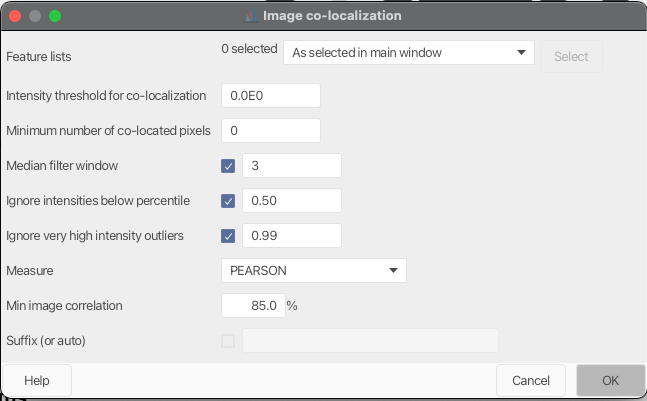
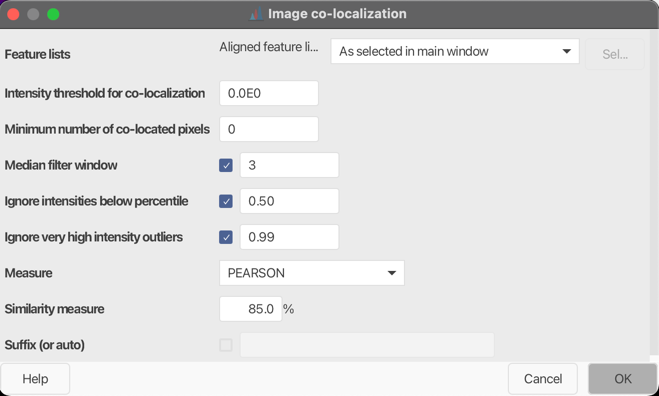
Upadated images and parameters

diff --git a/docs/visualization_modules/image_raw_data/image_viewer.md b/docs/visualization_modules/image_raw_data/image_viewer.md
@@ -14,7 +14,7 @@ The top right panel gives information about the raw file and imaging parameters 
 
 !!! tip
     
-    The Settings menu below can be used to change the imaging parameters.
+    The Settings menu on top can be used to change the imaging parameters.
 
 ## Parameters and Settings
 

diff --git a/docs/module_docs/group_imagecorrelate/image-colocalization.md b/docs/module_docs/group_imagecorrelate/image-colocalization.md
@@ -36,7 +36,7 @@ Optional: Only consider values below the selected percentile, 0.99 is recommende
 #### Measure
 Select similarity measure.
 
-#### Min image correlation
+#### Similarity measure
 "Minimum percentage for image similarity to be considered co-located."
 
 #### Suffix (or auto)
